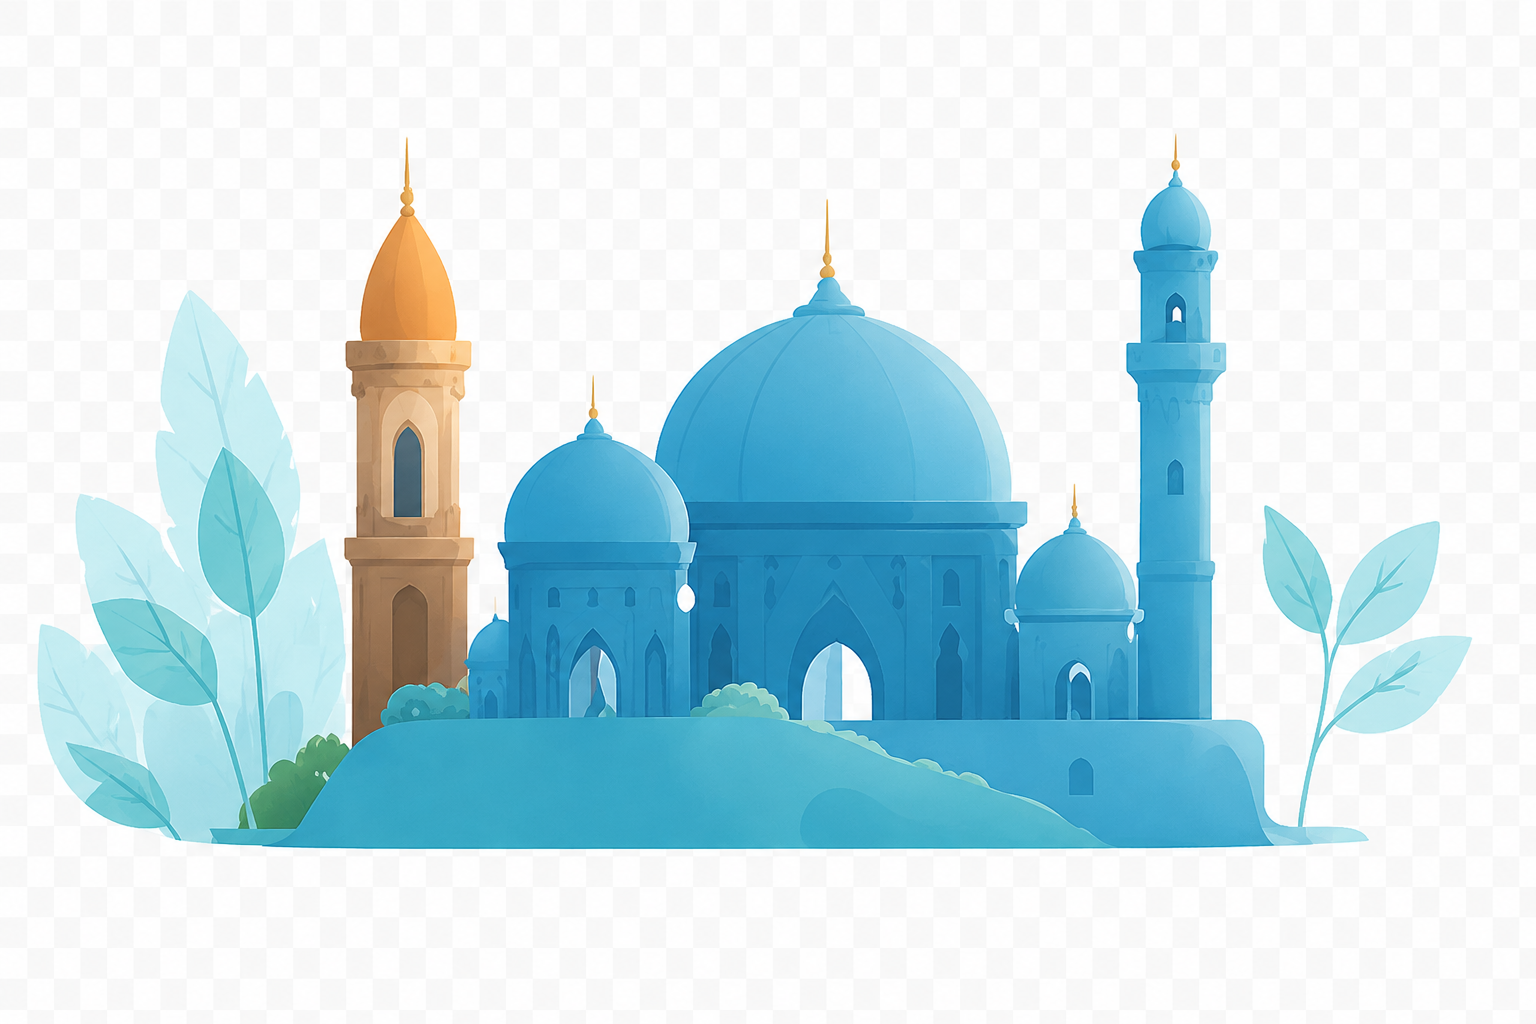
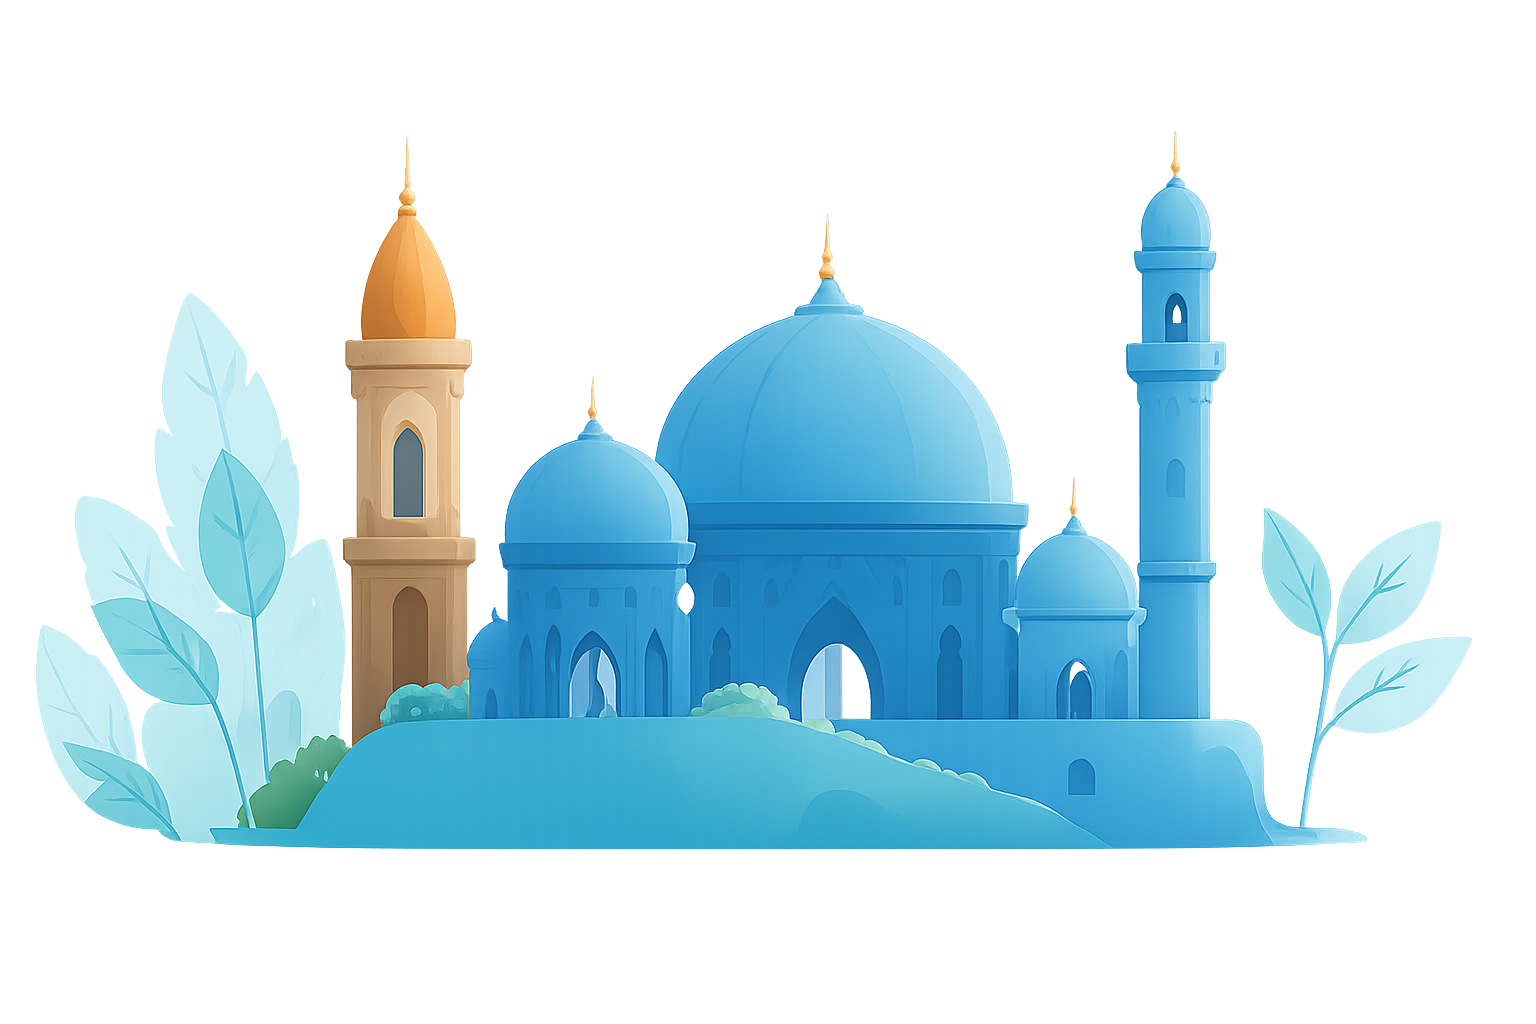
CTA illustration: switch to absolute bottom-anchoring (154px); footer restyled to match navbar
align-self:flex-end silently fell back to top-anchoring once the
image's height (154px) exceeded the banner's own height (130px) —
confirmed via getBoundingClientRect that the browser was anchoring the
oversized flex item to the start instead of the end. Wrapped the
button+text pair in a new .t-cta-content flex container and switched
the illustration to position:absolute; bottom:0, which anchors
reliably regardless of how much it overflows (clipped by the banner's
own overflow:hidden). Verified: height 154px, 0px gap from the bottom.

Footer: background changed from dark navy to white (matching
.t-header), and .t-footer-top switched from a stacked column back to
a single row so socials/links/copyright sit on one line. Left
.t-footer-back (the "ساحة - قسم الإعلانات" bar) untouched per
instruction.

diff --git a/tourism-preview/style.css b/tourism-preview/style.css
@@ -208,15 +208,22 @@ a{color:inherit;text-decoration:none;}
     #F8FCFF 60%,
     #a0d6ff 100%);
   box-shadow:0 6px 24px rgba(15,42,61,.10);
-  display:flex; align-items:center; justify-content:space-between; gap:20px; flex-wrap:wrap;
+}
+.t-cta-content{
+  height:100%; display:flex; align-items:center; justify-content:space-between; gap:20px; flex-wrap:wrap;
+  position:relative; z-index:1;
 }
 /* The saved file has no alpha channel (flattened to a white background
    during save/paste). mix-blend-mode:multiply fakes transparency: white
    pixels multiply out to nothing over the banner's light background,
-   while the illustration's colored pixels stay visible. */
+   while the illustration's colored pixels stay visible.
+   Positioned absolute (not a flex item) so its height can exceed the
+   banner's own height and still anchor flush to the bottom, clipped
+   by the banner's overflow:hidden. */
 .t-cta-illustration{
-  align-self:flex-end; height:115px; width:auto; max-width:220px;
-  object-fit:contain; object-position:bottom; flex-shrink:0; mix-blend-mode:multiply;
+  position:absolute; inset-inline-start:16px; bottom:0; z-index:0;
+  height:154px; width:auto; max-width:220px;
+  object-fit:contain; object-position:bottom; mix-blend-mode:multiply;
 }
 @media (prefers-color-scheme: dark){ .t-cta{background:linear-gradient(180deg, #234a5c 0%, #1c232e 100%);} }
 :root[data-theme="dark"] .t-cta{background:linear-gradient(180deg, #234a5c 0%, #1c232e 100%);}
@@ -234,21 +241,21 @@ a{color:inherit;text-decoration:none;}
 .t-cta-btn:hover{background:var(--t-accent-dark);}
 
 /* ---- footer ---- */
-.t-footer{background:var(--t-navy); color:rgba(255,255,255,.82);}
+.t-footer{background:#fff; color:var(--t-text);}
 .t-footer-top{
   height:120px; box-sizing:border-box; padding:14px 20px;
-  display:flex; flex-direction:column; align-items:center; justify-content:center; gap:10px;
+  display:flex; flex-direction:row; flex-wrap:wrap; align-items:center; justify-content:center; gap:20px;
 }
 .t-footer-social{display:flex; gap:12px;}
 .t-footer-social a{
-  width:30px;height:30px;border-radius:50%; background:rgba(255,255,255,.08);
-  display:flex;align-items:center;justify-content:center; color:#fff;
+  width:30px;height:30px;border-radius:50%; background:var(--t-bg); border:1px solid var(--t-border);
+  display:flex;align-items:center;justify-content:center; color:var(--t-text);
 }
 .t-footer-social a svg{width:14px;height:14px;}
 .t-footer-links{display:flex; gap:20px; flex-wrap:wrap; justify-content:center; font-size:12px;}
-.t-footer-links a{opacity:.85;}
-.t-footer-links a:hover{opacity:1;}
-.t-footer-copy{font-size:11.5px; opacity:.6; text-align:center;}
+.t-footer-links a{color:var(--t-muted);}
+.t-footer-links a:hover{color:var(--t-text);}
+.t-footer-copy{font-size:11.5px; color:var(--t-muted); text-align:center;}
 
 .t-footer-back{
   border-top:1px solid rgba(255,255,255,.1); text-align:center; padding:12px 20px;

diff --git a/tourism-preview/index.html b/tourism-preview/index.html
@@ -168,13 +168,15 @@
 
   <div class="t-container t-section" style="padding-top:0;">
     <div class="t-cta">
-      <a class="t-cta-btn" href="add-place.html">
-        أضف مكان جديد
-        <svg viewBox="0 0 24 24" fill="none" stroke="currentColor" stroke-width="2" stroke-linecap="round" stroke-linejoin="round" style="width:20px;height:20px;"><circle cx="12" cy="12" r="9"/><path d="M12 8v8M8 12h8"/></svg>
-      </a>
-      <div class="t-cta-text">
-        <h3>هل تعرف مكانًا رائعًا؟</h3>
-        <p>شاركنا مكانك المفضل وساعد الآخرين على اكتشافه</p>
+      <div class="t-cta-content">
+        <a class="t-cta-btn" href="add-place.html">
+          أضف مكان جديد
+          <svg viewBox="0 0 24 24" fill="none" stroke="currentColor" stroke-width="2" stroke-linecap="round" stroke-linejoin="round" style="width:20px;height:20px;"><circle cx="12" cy="12" r="9"/><path d="M12 8v8M8 12h8"/></svg>
+        </a>
+        <div class="t-cta-text">
+          <h3>هل تعرف مكانًا رائعًا؟</h3>
+          <p>شاركنا مكانك المفضل وساعد الآخرين على اكتشافه</p>
+        </div>
       </div>
       <img class="t-cta-illustration" src="images/mosque-leaves.png" alt="" aria-hidden="true">
     </div>
